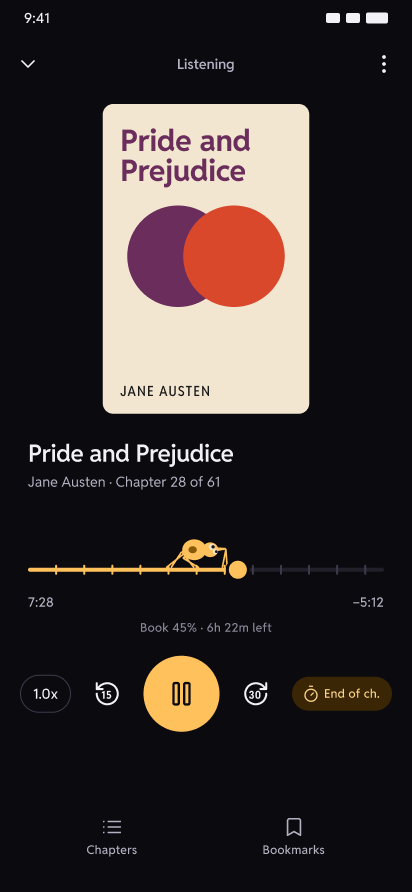
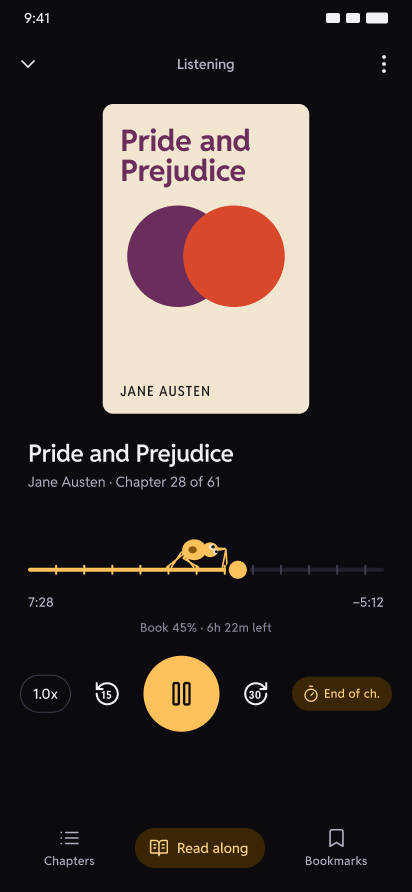
Stats redesign, library tabs, read along mode and buddy paywall designs

Changed region(s): [[0.1165, 0.9081, 0.8738, 0.9989]]

diff --git a/design/demo-library.md b/design/demo-library.md
@@ -1,11 +1,11 @@
 # Demo library (illustrative sample data)
 
-All titles are public domain except "Orb-weaver silk mechanics", which stands in for a user's own PDF. Durations, page counts and progress are made up for the designs and must stay consistent across screens.
+All titles are public domain except "Orb-weaver silk mechanics", which stands in for a user's own PDF. Durations, page counts, times and progress are made up for the designs and must stay consistent across screens.
 
 | # | Title | Author | Type | Format | Count badge | Status | Progress |
 |---|---|---|---|---|---|---|---|
 | 1 | Moby-Dick; or, The Whale | Herman Melville | ebook | EPUB | 135 chapters | reading | 1% (chapter 1; on-device narration at 5% of the chapter) |
-| 2 | Frankenstein | Mary Shelley | ebook + audio pair | EPUB (+ M4B) | 24 chapters | reading | 31% |
+| 2 | Frankenstein | Mary Shelley | ebook + audio pair | EPUB + M4B (8h 35m) | 24 chapters | reading | 32% (chapter 8, 4:50 of 20:37) |
 | 3 | Pride and Prejudice | Jane Austen | audio | M4B | 11h 35m | reading | 45% |
 | 4 | Little Nemo in Slumberland | Winsor McCay | comic | CBZ | 190 pages | reading | page 118 of 190 (62%) |
 | 5 | The Time Machine | H. G. Wells | pdf | PDF | 240 pages | reading | page 118 of 240 (49%) on the phone; page 210 (88%) on the tablet |
@@ -17,15 +17,88 @@ All titles are public domain except "Orb-weaver silk mechanics", which stands in
 | 11 | Thimble Theatre | E. C. Segar | comic | CBR | 40 issues | want | 0% |
 | 12 | Winnie-the-Pooh | A. A. Milne | ebook | EPUB | 10 chapters | finished | 100% |
 
-## Derived numbers
+## Library tabs (placed by hand)
 
-- Shelf counts: All 12; Reading 7 (1, 2, 3, 4, 5, 8, 10); Listening 4 (2, 3, 6, 9); Comics 2 (4, 11); Papers 1 (10). Finished: 2 (7, 12).
-- Pride and Prejudice: 61 chapters, 11h 35m = 695 min. 45% = 313 min = 5h 13m played, 6h 22m left. Now in chapter 28 (12:40 long), at 7:28, so 5:12 left in the chapter; the chapter scrubber shows 12 minute ticks.
+Defaults: All, Unsorted, Reading, Listening. Imports land in Unsorted. A book can be in more than one tab.
+
+- All 12 (fills itself).
+- Unsorted 3 (fills itself: books in no tab): 7, 11, 12.
+- Reading 6: 1, 2, 4, 5, 8, 10.
+- Listening 4: 2, 3, 6, 9.
+- Check: Reading ∪ Listening = 9 books (Frankenstein is in both), plus Unsorted 3 = 12.
+- Move sheet example: Alice (7) and Winnie-the-Pooh (12) selected, going into a new tab "Kids".
+
+## Status counts (from progress, not tabs)
+
+Started 7 (1, 2, 3, 4, 5, 8, 10) · Finished 2 (7, 12) · Not started 3 (6, 9, 11) = 12.
+
+## Time spent, all time (sessions)
+
+| # | Title | Read | Listened | Total |
+|---|---|---|---|---|
+| 1 | Moby-Dick | 25m | | 25m |
+| 2 | Frankenstein | 1h 40m | 1h 05m | 2h 45m |
+| 3 | Pride and Prejudice | | 5h 13m | 5h 13m |
+| 4 | Little Nemo | 59m | | 59m |
+| 5 | The Time Machine | 2h 57m | | 2h 57m |
+| 7 | Alice | 2h 10m | | 2h 10m |
+| 8 | The Interesting Narrative | 48m | | 48m |
+| 10 | Orb-weaver silk mechanics | 36m | | 36m |
+| 12 | Winnie-the-Pooh | 1h 25m | | 1h 25m |
+
+Total 1,038 min = 17h 18m (reading 660 min, listening 378 min). Top books: Pride and Prejudice 5h 13m, The Time Machine 2h 57m, Frankenstein 2h 45m.
+
+## Formats you use most (all time, by time spent)
+
+| Rank | Format | Files | Minutes | Share of 1,038 |
+|---|---|---|---|---|
+| 1 | EPUB | 5 books (1, 2, 7, 8, 12) | 25 + 100 + 130 + 48 + 85 = 388 (6h 28m) | 37.4% → 37% |
+| 2 | M4B | 3 audiobooks (Frankenstein, Pride and Prejudice, Hound) | 65 + 313 = 378 (6h 18m) | 36.4% → 36% |
+| 3 | PDF | 2 files (5, 10) | 177 + 36 = 213 (3h 33m) | 20.5% → 21% |
+| 4 | CBZ | 1 comic (4) | 59 (59m) | 5.7% → 6% |
+
+Not opened yet: MP3 (Dracula), CBR (Thimble Theatre). Shares add to 100%.
+
+## Last 7 days (Sat 10 Oct to Fri 16 Oct 2026)
+
+| Day | Reading | Listening | Total |
+|---|---|---|---|
+| Fri 16 Oct (today) | 35 | 70 | 105 (1h 45m) |
+| Thu 15 Oct | 60 | 30 | 90 (1h 30m) |
+| Wed 14 Oct | 20 | 65 | 85 (1h 25m) |
+| Tue 13 Oct | 45 | 40 | 85 (1h 25m) |
+| Mon 12 Oct | 30 | 50 | 80 (1h 20m) |
+| Sun 11 Oct | 20 | 50 | 70 (1h 10m) |
+| Sat 10 Oct | 42 | 60 | 102 (1h 42m) |
+| Total | 252 (4h 12m) | 365 (6h 05m) | 617 (10h 17m) |
+
+- Daily average 617 / 7 = 88.1 min → 1h 28m. Streak 7 days (every day above zero).
+- Bars scale to the busiest day (105 min = full width).
+- Week listening 365 = Pride and Prejudice 300 + Frankenstein 65. Pride and Prejudice's other 13 min were on 9 Oct.
+- Today: 35m reading (The Time Machine) + 1h 10m listening (Pride and Prejudice, 45m + 25m). Last session: 25m of Pride and Prejudice.
+
+## Saved
+
+Highlights 48 (Time Machine 9, Alice 14, Pooh 6, Frankenstein 11, Equiano 3, Orb-weaver 5). Notes 12 (2, 3, 1, 4, 0, 2). Bookmarks 7 (Pride and Prejudice 4, Little Nemo 3).
+
+## Per-book stats
+
+- The Time Machine: reading time 2h 57m (177 min) over 118 pages = 1.5 min a page; pages left 240 − 118 = 122; time left 122 × 1.5 = 183 min = 3h 03m; highlights 9; notes 2; 14 sessions, average 177 / 14 = 12.6 → 13m; started 2 Oct 2026; last read today.
+- Pride and Prejudice: listened 5h 13m (313 min); chapter 28 of 61; 45%; time left 695 − 313 = 382 min = 6h 22m at 1.0x, 382 / 1.5 = 255 min = 4h 15m at 1.5x; bookmarks 4; 9 sessions, average 313 / 9 = 34.8 → 35m; usual speed 1.0x; started 9 Oct 2026; last listened today.
+
+## Other derived numbers
+
+- Pride and Prejudice: 61 chapters, 11h 35m = 695 min. 45% = 313 min played, 6h 22m left. Chapter 28 is 12:40 long; at 7:28, 5:12 left in the chapter; 12 minute ticks.
+- Frankenstein audio: 8h 35m = 515 min. Chapter 8 is 3,093 words, read in 20:37 (1,237 s). At 4:50 the sentence "She was alarmed by this account…" is playing: 32.1% of the book, 15:47 left in the chapter, 515 × (1 − 0.321) = 350 min = 5h 50m left in the book. Chapter 8 has 20 minute ticks.
 - Time Machine sync prompt: 118 / 240 = 49%; 210 / 240 = 88%.
-- Stats week: reading 30 + 45 + 20 + 60 + 35 + 42 + 20 = 252 min = 4h 12m; listening 50 + 40 + 65 + 30 + 70 + 60 + 50 = 365 min = 6h 05m; total 617 min = 10h 17m.
 - Narration voice: Kokoro "Heart" (US English). Voice pack size "~80 MB" is a placeholder until the quantized model is chosen.
+
+## Reading buddies
+
+Free: Silk (default), Inko, Lumen. Pro: Pip, Tako. Pro price and one-time vs yearly are still open in the plan, so no price is shown.
 
 ## Text on screen
 
-- Read-along demo: Moby-Dick, chapter 1 ("Loomings"), paragraph beginning "It is a way I have of driving off the spleen", cut with an ellipsis after "knocking people's hats off" so the original punctuation is never altered. The highlighted sentence starts at "Whenever".
+- Narration read-along demo: Moby-Dick, chapter 1 ("Loomings"), paragraph beginning "It is a way I have of driving off the spleen", cut with an ellipsis after "knocking people's hats off" so the original punctuation is never altered. The highlighted sentence starts at "Whenever".
+- Audiobook Read along demo: Frankenstein, chapter 8, paragraph beginning "She then related that, by the permission of Elizabeth" (Project Gutenberg #84), unchanged. The buddy walks "She was alarmed by this account and passed several hours…".
 - Reading buddy samples: opening lines of Moby-Dick, Frankenstein (chapter 5), Alice, Pride and Prejudice and The Hound of the Baskervilles.

diff --git a/design/design-profile.md b/design/design-profile.md
@@ -7,15 +7,17 @@
 
 ## What is built (source of truth)
 - Codebase: none yet (design first). Source of truth is `Architecture_plan.docx` (shared 2026-10-13).
-- Planned, phase-labelled in designs: read-listen switching (Phase 3), on-device Kokoro narration (Phase 4), skip silence and volume boost (after MVP), cloud voices (Phase 4).
-- Proposed, not in the plan: Open Library metadata lookup (owner asked for AI-written metadata; Open Library is free and needs no server AI).
+- Planned, phase-labelled in designs: read-listen switching and the audiobook Read along mode (Phase 3), on-device Kokoro narration (Phase 4), skip silence and volume boost (after MVP), cloud voices (Phase 4).
+- Proposed, not in the plan: Open Library metadata lookup (owner asked for AI-written metadata; Open Library is free and needs no server AI); transcribing an audiobook that has no linked ebook so it can use Read along.
+- Owner decisions (15 Oct 2026): Library tabs default to All, Unsorted, Reading, Listening and are sorted by hand; imports land in Unsorted. Stats get an overall page (Kindle week view + Mihon overview + format ranking, no download stats) and a per-book page modelled on the Kindle book card. Audiobooks get a Read along text mode where the reading buddy walks the current line instead of a highlight. Three reading buddies are free, the rest need Pro.
 
 ## Sanctioned dataset
 - Path: `design/demo-library.md`. Every number on screen comes from it. All values are illustrative sample data for public-domain titles.
 
 ## Domain vocabulary
 - Item types: ebook, comic, pdf, audio. Status: want, reading, finished.
-- Shelves = the plan's "collections" (user-made tabs in the Library). Tags = chips on the item.
+- Tabs = the plan's "collections" (across the top of the Library). All and Unsorted fill themselves; other tabs are placed by hand. Tags = chips on the item.
+- Read along = audiobook text mode (lyrics style); narration = text-to-speech of an ebook.
 - Pair = an ebook and an audiobook linked as one title.
 - Position model: CFI for reflowable ebooks, page for PDFs and comics, track + seconds for audio. Every item also has a percent.
 - Narration moves by sentence (the pipeline splits text into sentences), so its skip buttons are previous/next sentence.
@@ -24,6 +26,9 @@
 ## Reference bar
 - Mihon/Tachiyomi (owner's screenshots): library grid with count badges and shelf tabs, reader chrome with page slider and four tools, settings list. Take the structure, not the skin.
 - Pocket Casts / Apple Books player: one big control row, chapter scrubber, sleep timer and speed as chips.
+- Kindle reading stats (owner's photos): "Last week" totals, per-day bars with dates and times, Session and Today blocks, and the per-book card (cover, percent, bar, reading time, page, pages left, time left, highlights, notes).
+- Mihon statistics (owner's screenshot): overview card with three numbers and icons, grouped count cards. Download counts are excluded on purpose.
+- Music-app lyrics view: text scrolls with the audio and the current line stays at a fixed height.
 - Pass rules: Reddit Sans text styles only; every colour bound to a variable; violet only for reading, amber only for listening; badges show the real file extension; no feature shown as live if the plan marks it later.
 
 ## Brand
